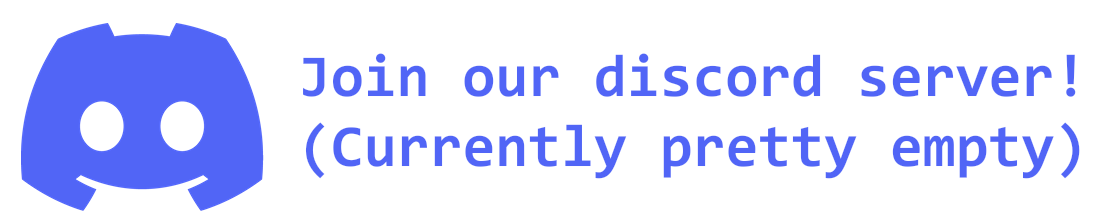
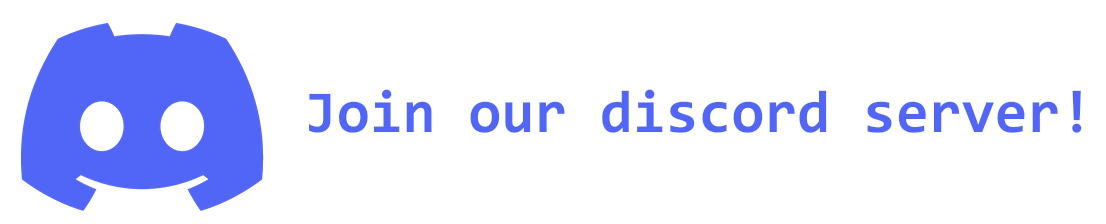
Discord server stuff

Changed region(s): [[0.2767, 0.2188, 0.9837, 0.8125]]

diff --git a/README.md b/README.md
@@ -4,7 +4,7 @@
 ![name](docs/img/name.png)
 
 [![Discord](docs/img/Discord.png)](https://discord.gg/h2SFGEbuRH)
-I made a discord server for support and whatever so feel free to join it even if it's currently pretty empty.
+I made a discord server for support and whatever so [feel free to join.](https://discord.gg/h2SFGEbuRH)
 
 # HadesVR       [![Release](https://img.shields.io/github/v/release/HadesVR/HadesVR.svg)](../../releases/latest)
 HadesVR is a SteamVR compatible VR setup made for tinkerers. 
